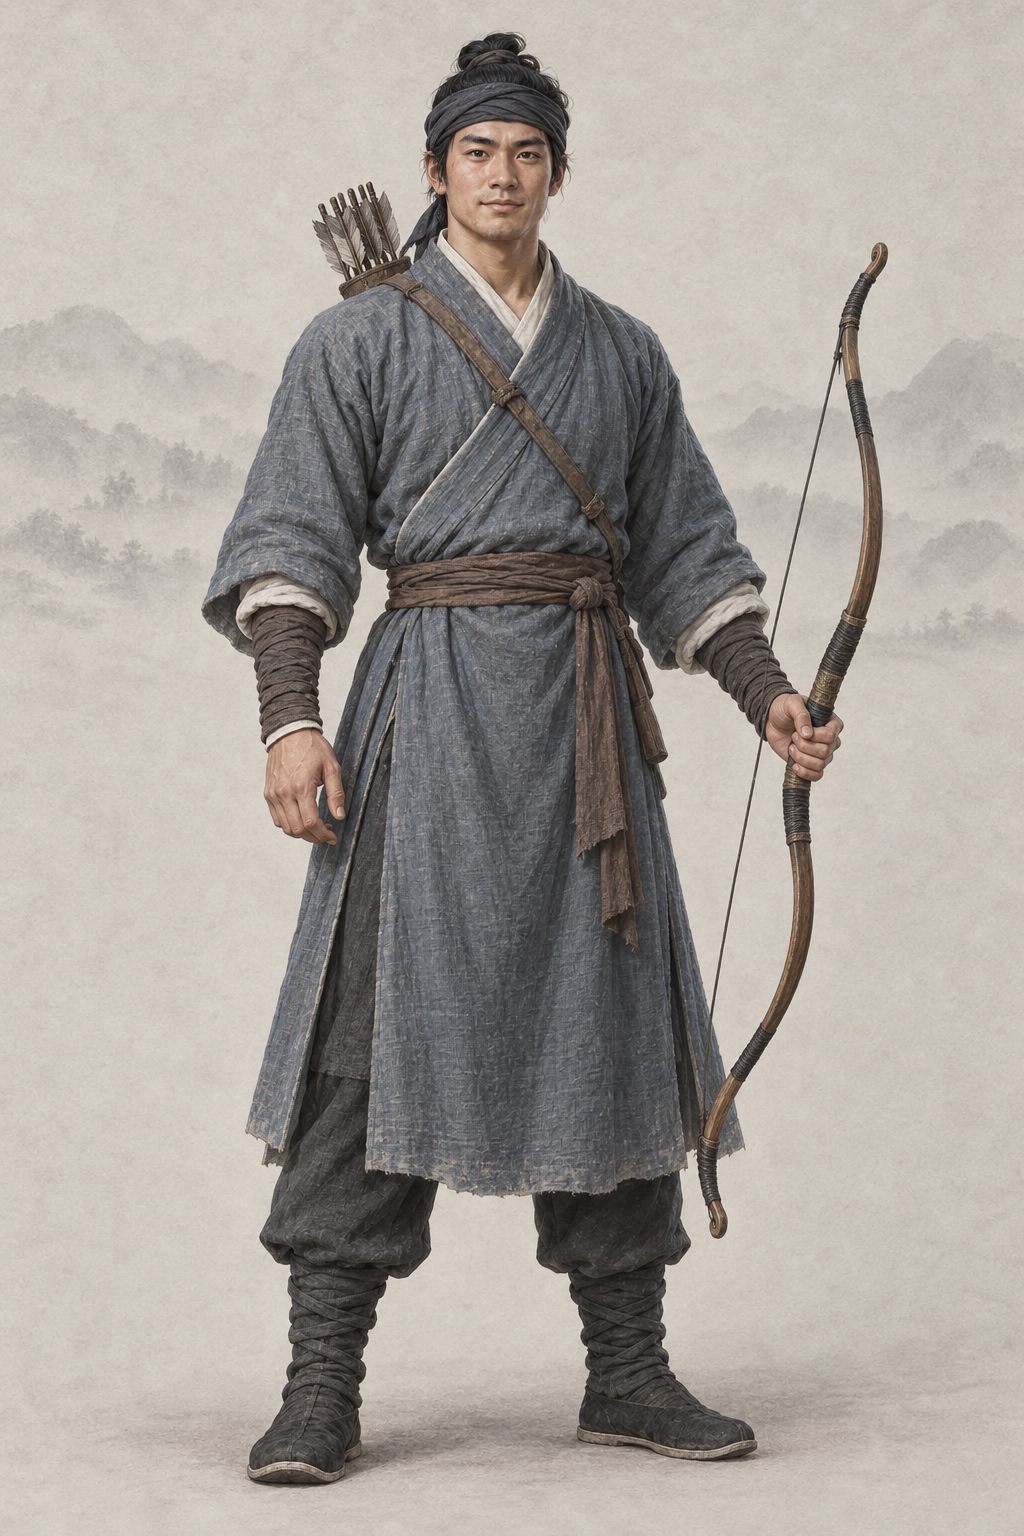
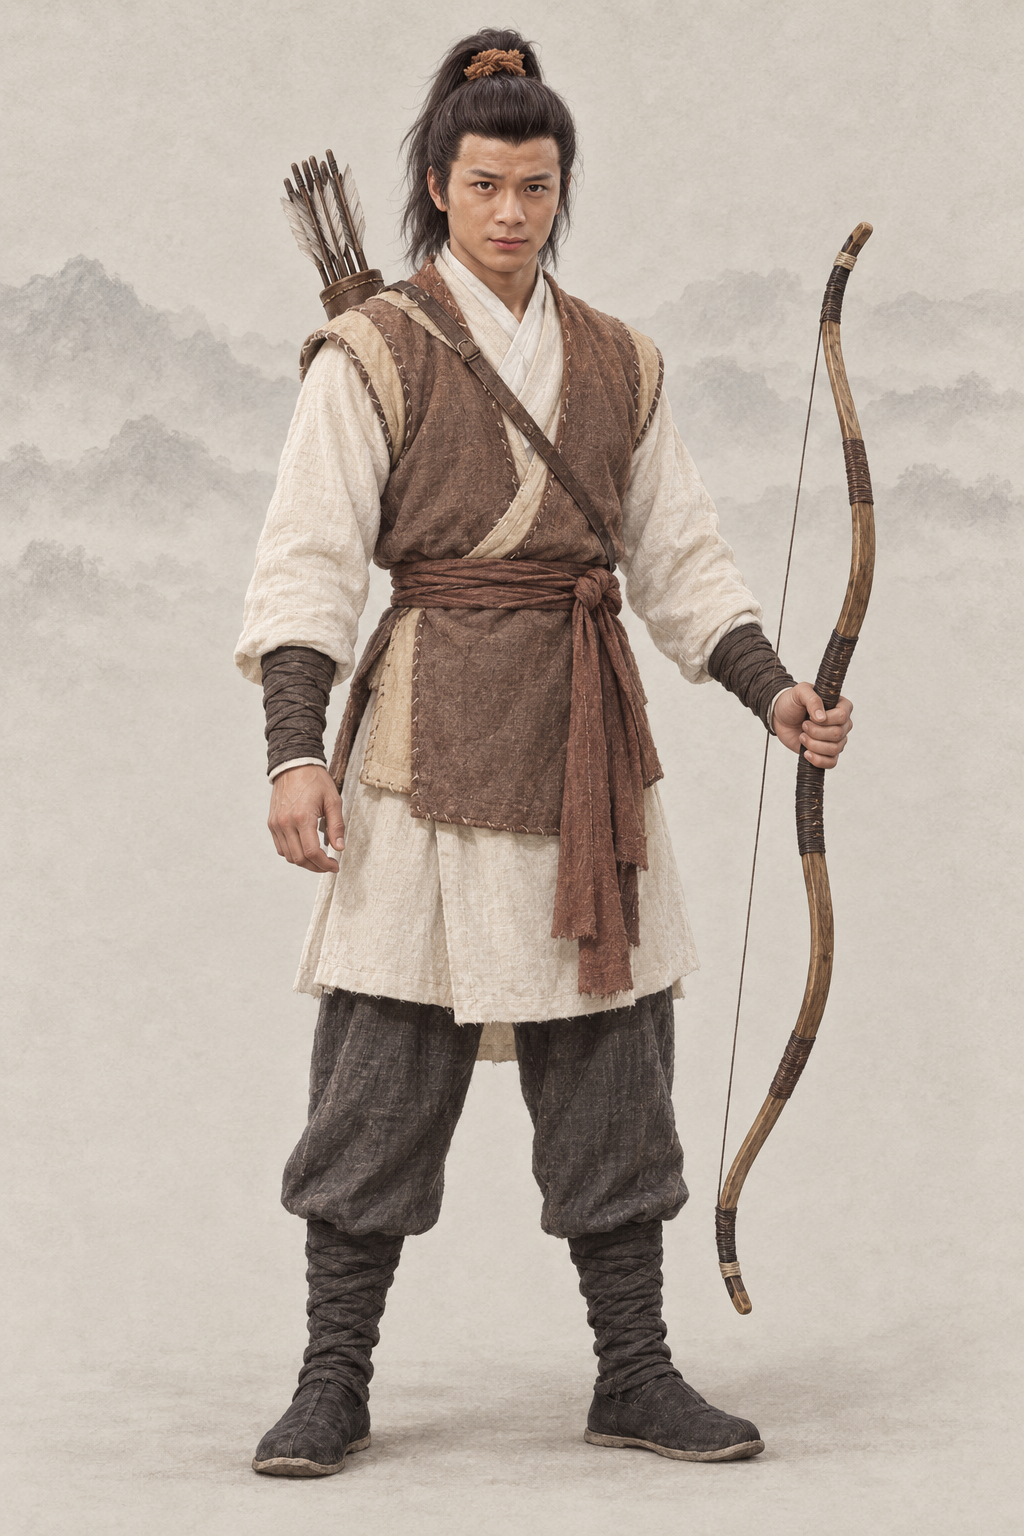
assets(character): por_npc_guojing__ch02_youth_base 郭靖（codex · AR-32 经典剧照 + 基线）
参考 1983 TVB《射雕英雄传》 剧照（guojing_1983_huangrihua_caption_verified_front.jpg、classic_guojing_still.jpg）与两张同性别基线重出；提示词写回、frontmatter 加 classic_ref。

diff --git a/assets/default/prompts/characters/ch02-shediao/npc_guojing.md b/assets/default/prompts/characters/ch02-shediao/npc_guojing.md
@@ -19,13 +19,47 @@ status: redo
 realism_revision: user_identity_pose_20261001
 redo_reason: "面容源自 1983 版剧照（肖像风险）且体格偏瘦，按原著浓眉大眼、粗壮憨厚的大漠青年用文字原创重做，连同五幅场景，并作神雕郭靖的身份参考"
 reference_upload:
+- .agents/coord/imagegen-reference/identity-20261001/guojing_1983_huangrihua_caption_verified_front.jpg
+- .agents/coord/imagegen-reference/hero-20261001/classic_guojing_still.jpg
 - assets/default/baseline/character/male/ref_npc_linghuchong__ch05_base01.png
+- assets/default/baseline/character/male/ref_npc_xiaofeng__ch01_base01.png
 codex_prompt_rev: 2026-10-02
+classic_ref:
+  version: 1983 TVB《射雕英雄传》
+  stills:
+  - .agents/coord/imagegen-reference/identity-20261001/guojing_1983_huangrihua_caption_verified_front.jpg
+  - .agents/coord/imagegen-reference/hero-20261001/classic_guojing_still.jpg
+  crop:
+    classic_guojing_still.jpg:
+    - 85
+    - 0
+    - 575
+    - 783
 ---
 
 # 郭靖 · 人物写实修正
 
 ## Gemini 提示词
+
+> 2026-10-02 AR-32 重出（5 号出图员，codex exec · image_gen）：主要角色改为参考经典影视版剧照加项目基线生成。上传顺序：1983 TVB《射雕英雄传》 剧照 2 张（guojing_1983_huangrihua_caption_verified_front.jpg、classic_guojing_still.jpg），最后两张为同性别画风基线（缩小版 JPEG）。剧照只借造型、气质与面部特征，画面按项目画风重绘、不复制照片。上一版（AR-31 文字版）保留在下一节作历史。
+
+```text
+生成一张 2:3 竖幅全身人物立绘：单人、单一视角、完整全身——头顶、双手、双脚和手中器物的两端都在画面内，四周留出自然空白；人物站姿自然，身体基本朝向正面，头部端正（不歪头、不仰不俯），镜头平视。
+【画风】写实手绘古风人物插画，与本项目写实武侠角色立绘同一画风，像功力深厚的画师用细腻笔触画出的真实人物。手绘插画质感，不是 CG 渲染：不要过度光滑的皮肤、完美对称的五官、塑料高光、过度锐利的发丝；保留自然的笔触和细微不完美。皮肤有真实质感——细小毛孔、细纹、晒痕和自然的左右不对称，不磨皮、不油亮；头发是一缕缕自然的发丝和少量碎发；布料看得出经纬纹理、厚薄和自然垂坠的褶皱，带穿用过的轻微旧化，但完整不破烂；整体设色低饱和、沉稳；柔和的自然光从左上方照来，明暗过渡自然，不打舞台光、轮廓光或美颜柔光。不是照片，不是三维渲染，不是动漫或游戏 CG，也不是油画（没有厚涂笔触和画布纹理）。
+【背景】不透明的暖浅灰色纸底，只在远处有极淡的水墨远山和薄雾，大面积留白；人物与背景明暗分明、轮廓边缘干净完整（后续要自动抠图），水墨和纸纹只在背景里，不侵入人物和衣服；脚下只有很淡的一点接触阴影。
+【人物】郭靖，《射雕英雄传》南宋（约 1220 年前后）的主角：在蒙古大漠长大的汉人青年，江南七怪之徒，已得洪七公传降龙十八掌，桃花岛历练前后。憨厚老实、重诺守信，是正在长成的大侠。
+【年龄与体态】约二十岁的青年，身材粗壮结实、肩宽背厚、胸膛厚实，手掌宽大，四肢有骑马射箭练出的力量（约 7.5 头身），站姿稳得像一棵树。
+【经典造型】以八十年代经典港剧里那位憨直可亲的郭靖为蓝本（见剧照）：浓眉大眼、方正敦厚的脸，一笑就露出朴实温暖的憨笑；黑发在头顶束成发髻、用褐色布带扎住，额前和鬓角有几缕碎发；米白布袍外罩褐色短坎肩；背弓挎箭，是大漠里长大的神箭手。
+【面容】方圆脸、宽额，浓黑粗眉，一双大眼睛又圆又亮、眼神朴实专注；鼻梁宽厚挺直、鼻头圆；嘴唇略厚，嘴角带一点憨厚的笑；面颊是大漠风日晒出的小麦色、两颊微红，没有胡须。憨厚而英俊、浓眉大眼的好男儿，让人一看就信得过——不是粗笨，也不丑。
+【发式】黑发在头顶束成发髻、用一条褐色布带扎住，额前和鬓角有几缕碎发。
+【服饰】米白色交领右衽窄袖布袍（宋式），外罩一件褐色交领短坎肩，赭褐色腰带，深色布裤与实用的深色布靴；衣料朴素厚实、完整干净。
+【道具】左手低垂握一张朴实的木质反曲弓（单根弓弦清楚、两端弓梢入画、不搭箭不拉弦），背上斜挎一只箭囊，露出几支箭羽；不佩剑。
+【姿态与神情】正面站立、双脚与肩同宽，胸肩自然舒展；神情憨厚坚毅，目光坦诚专注。
+【不要】画面里不要任何文字、题款、印章、签名、水印、边框、分格或多视图；不要第二个人；不要幼态（童颜、娃娃脸、婴儿肥、儿童或少年身材、大头小身）；不要塑料感皮肤、磨皮美颜、网红脸（尖下巴大眼高鼻的模板脸）、过度对称、浓妆、偶像式打光、蜡像感；不要照片质感、三维渲染或动漫大眼；不要歪头、斜镜头；不要多指、缺指（设定的伤残除外）、手与器物粘连或悬空；汉式交领必须右衽（穿着者的左襟压在右襟上），不要左衽（设定为少数民族服制的除外），不要水平镜像；不要现代物品、发光特效、法阵或能量光。不要瘦削身材或精致偶像脸；不要中年胡须（这是射雕青年期）；不要华服佩剑；不要龙形掌风特效。
+【参考图】随提示词上传的参考图共 4 张，按顺序：第 1、2 张是这个角色经典影视造型的剧照：借鉴其发型、服饰、配色、标志道具、气质和面部特征，让人一眼认出是这个角色；但必须重新绘制成本项目的画风，不要照片质感，不要照搬剧照的构图、光影、背景和姿势，也不要做成照片修图；剧照与上文文字有出入时，以上文文字为准。最后两张是本项目的立绘画风基线：画风、用色、光线、质感和暖浅灰纸底加淡水墨的背景以它们为准——精细写实的数字手绘插画，不是油画，不要厚涂笔触和画布纹理；基线图里人物的长相、年龄、发型、服饰和姿势一律不取。
+```
+
+## AR-31 文字版 Gemini 提示词（2026-10-02 凌晨；AR-32 剧照版之前，历史，不再用于出图）
 
 > 2026-10-02 AR-31 改写（1 号出图员，codex exec · image_gen 出图）：重要人物借鉴经典影视造型，只写成文字——不写演员名、不上传剧照、原创面孔；主角和美人画得好看，去 AI 味，禁止幼态。出图时上传两张同性别基线立绘作画风参考（放在最后）。审核组原稿保留在下一节作历史。
 
